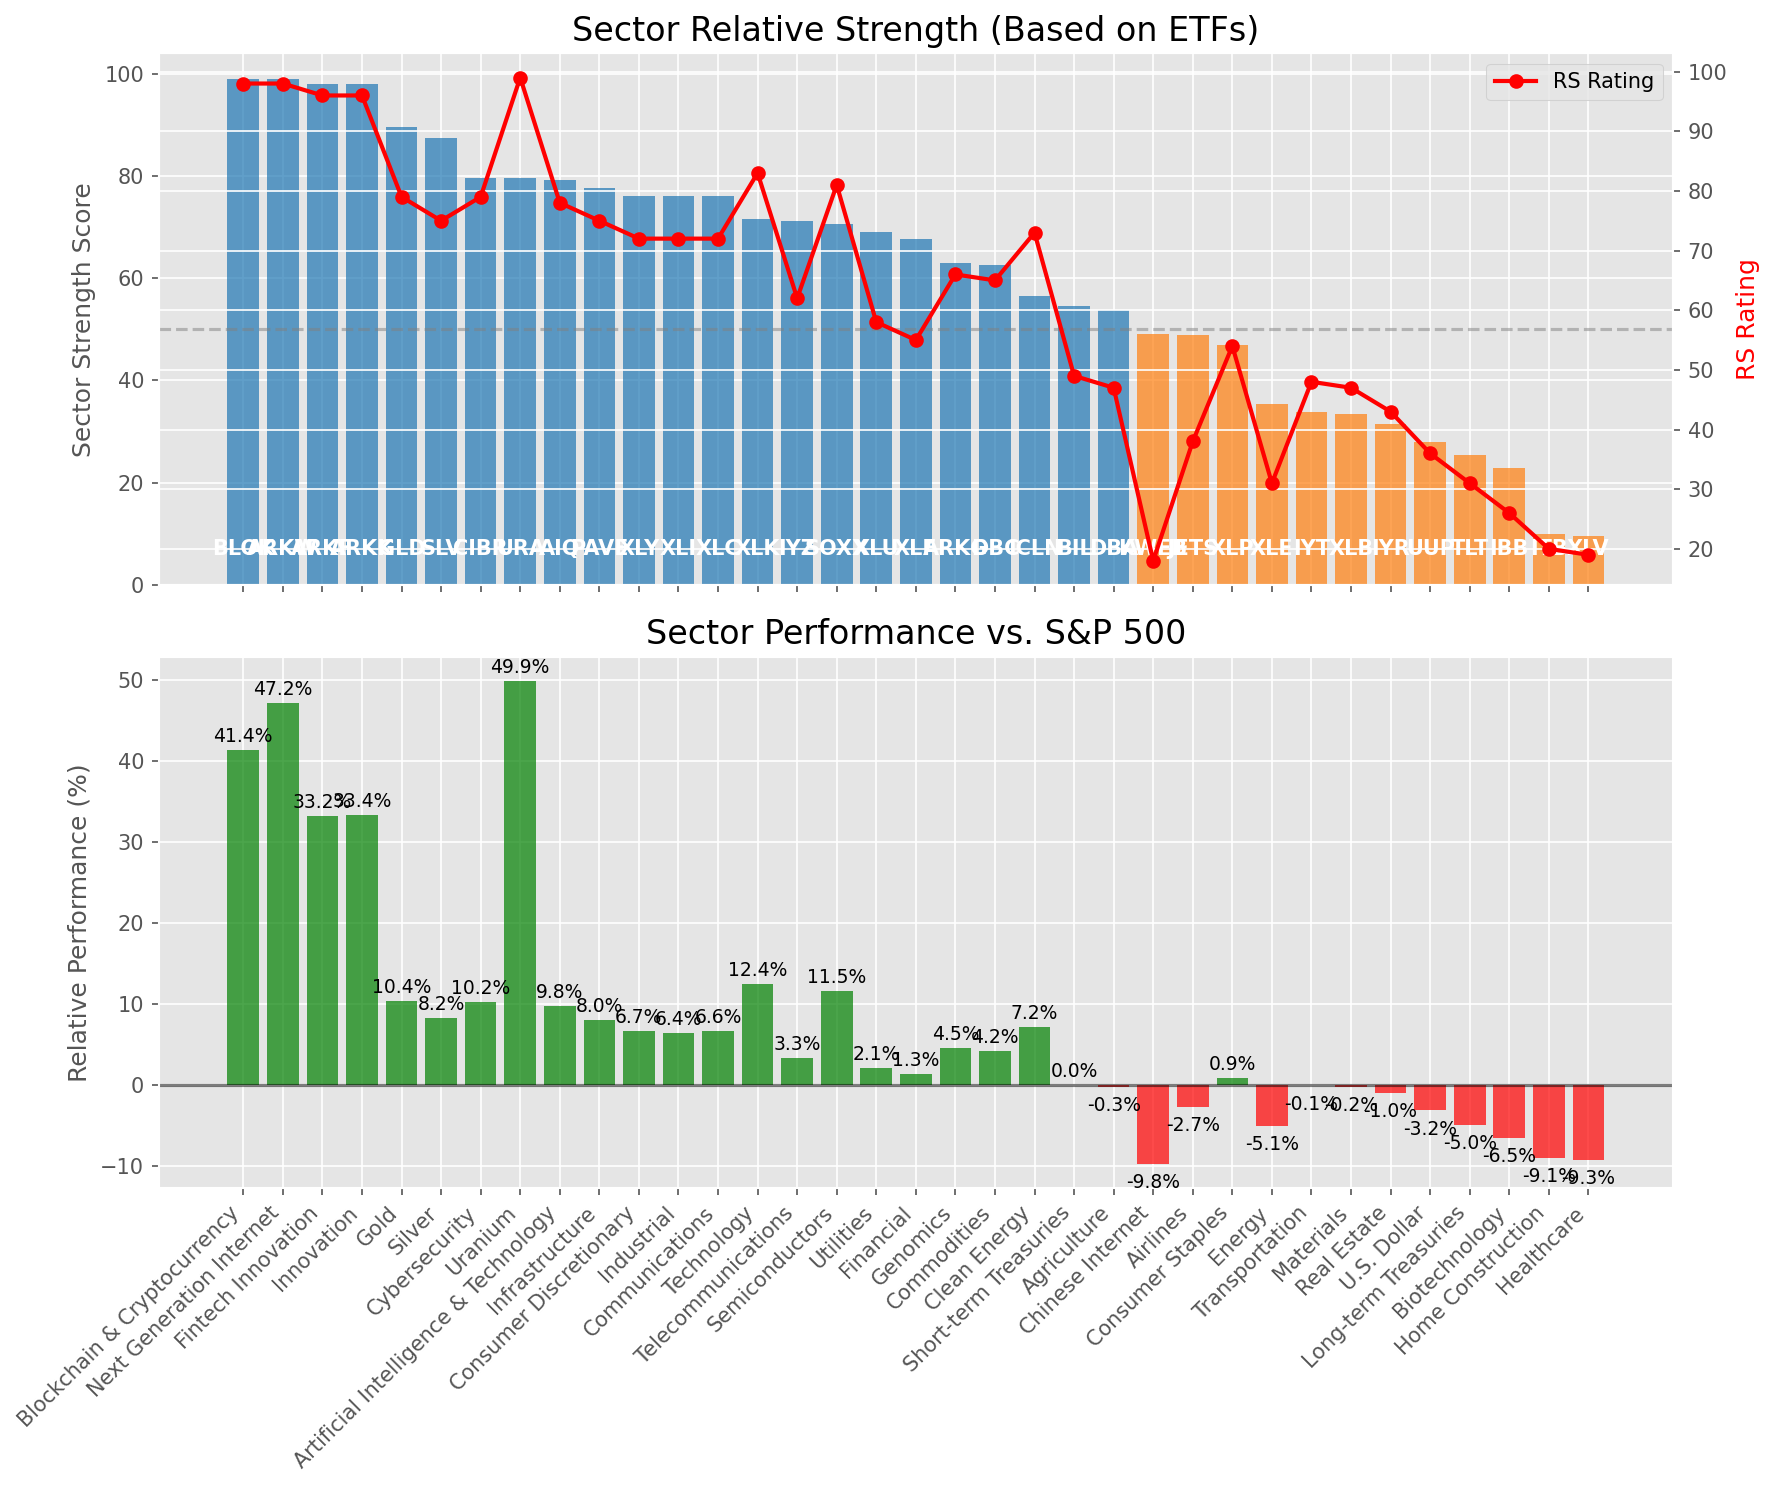
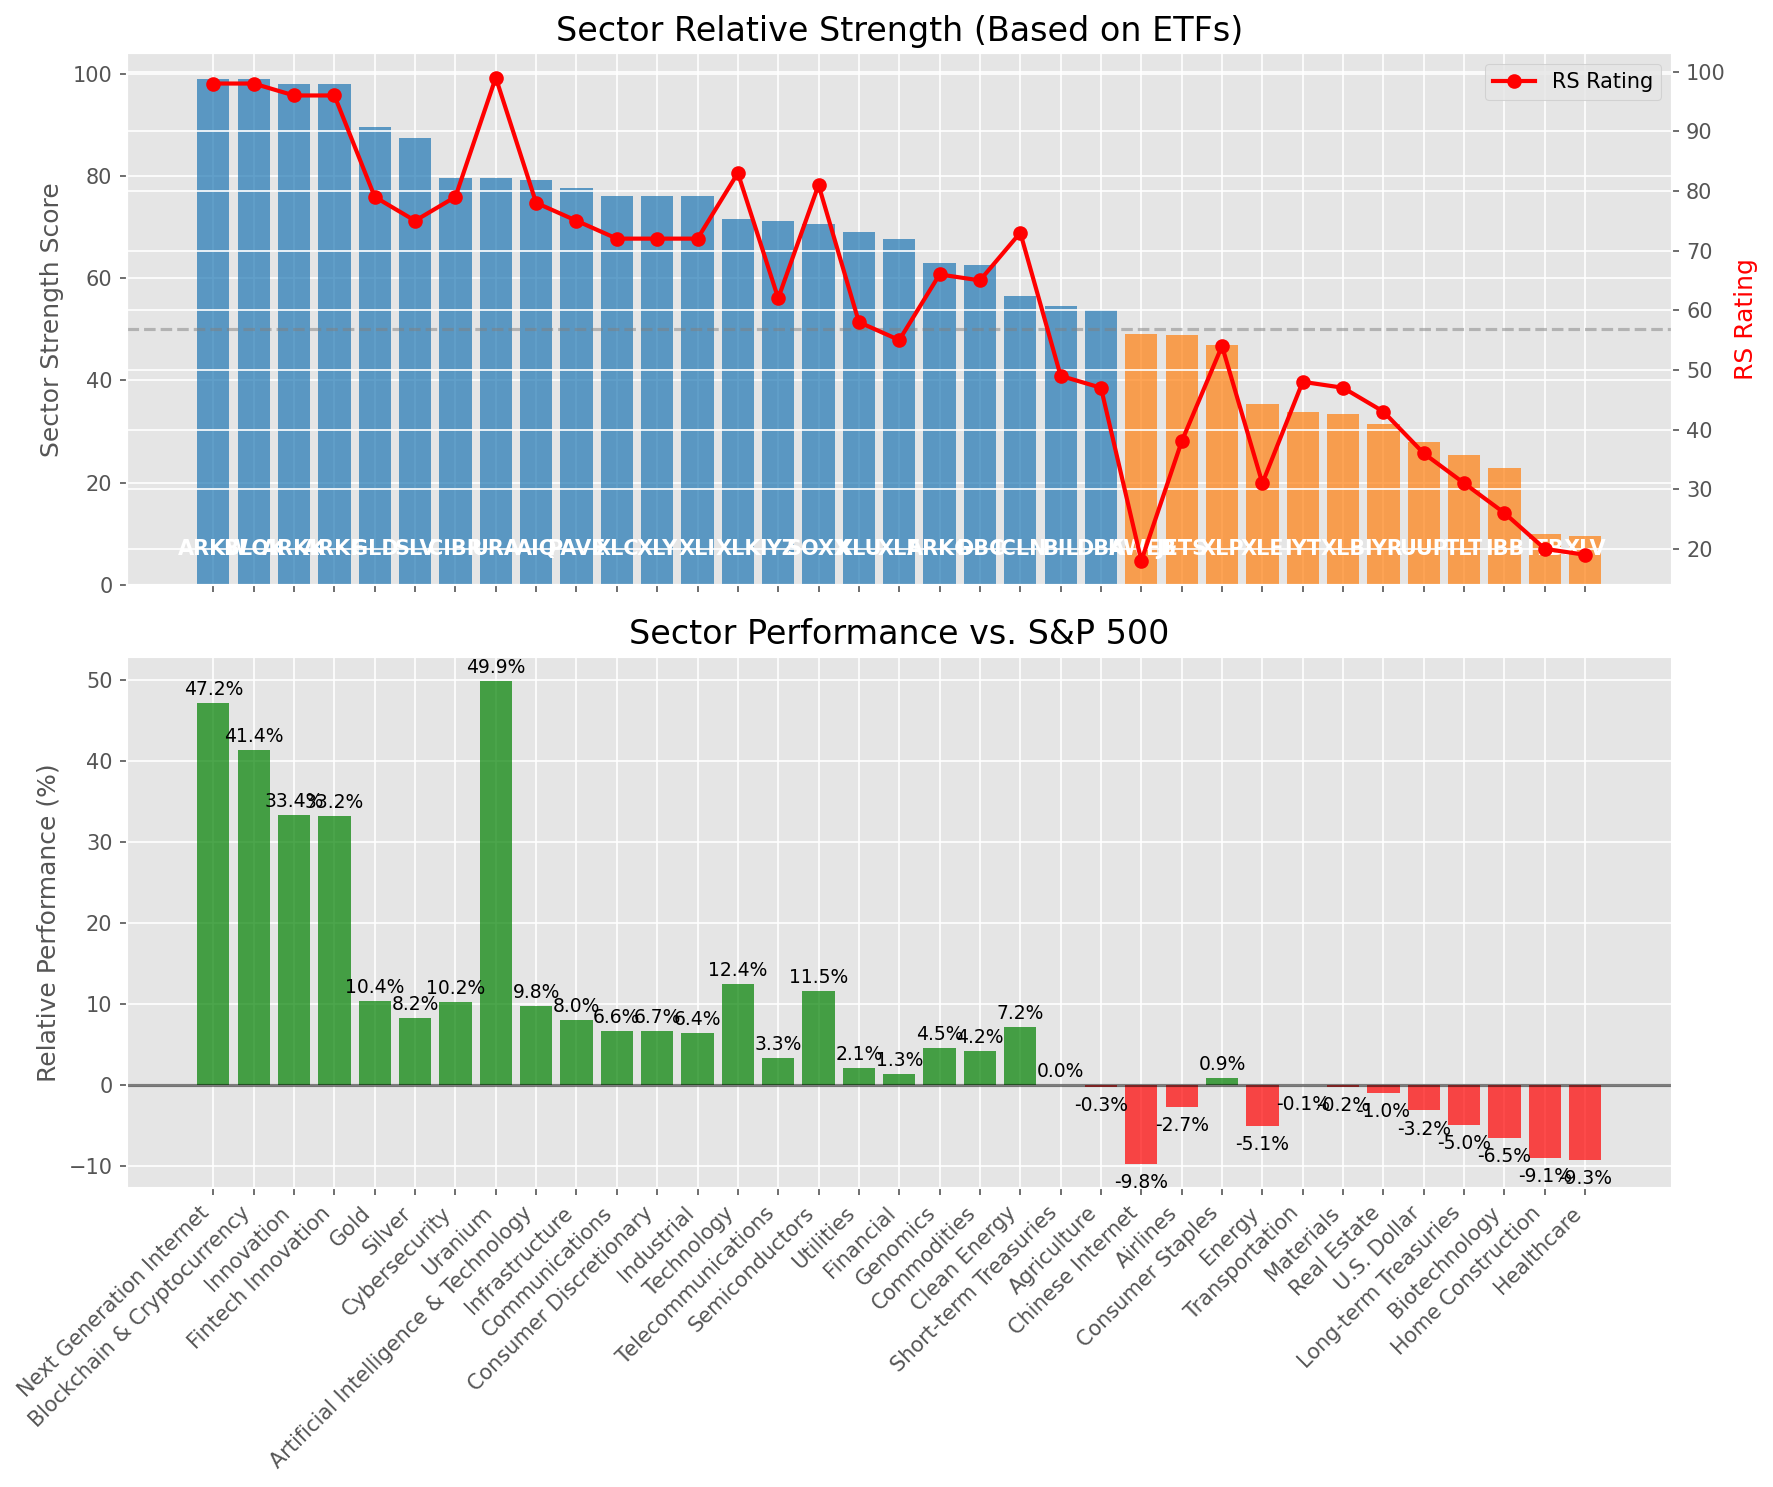
Add market report for 2025-06-19

diff --git a/oneil_relative_strength_report_2025-06-19.md b/oneil_relative_strength_report_2025-06-19.md
@@ -49,19 +49,19 @@ Based on William O'Neil's Relative Strength Methodology
 
 | ETF | Strength | RS Rating | Performance | Above Key MAs | Trend | Sector |
 |-----|----------|-----------|-------------|--------------|-------|--------|
-| [BLOK](https://www.tradingview.com/chart/?symbol=BLOK) | 99.0 | 98.0 | 41.40% | 10d ✓, 50d ✓, 200d ✓ | ↗ | Blockchain & Cryptocurrency |
 | [ARKW](https://www.tradingview.com/chart/?symbol=ARKW) | 99.0 | 98.0 | 47.16% | 10d ✓, 50d ✓, 200d ✓ | ↗ | Next Generation Internet |
-| [ARKF](https://www.tradingview.com/chart/?symbol=ARKF) | 98.0 | 96.0 | 33.24% | 10d ✓, 50d ✓, 200d ✓ | ↗ | Fintech Innovation |
+| [BLOK](https://www.tradingview.com/chart/?symbol=BLOK) | 99.0 | 98.0 | 41.40% | 10d ✓, 50d ✓, 200d ✓ | ↗ | Blockchain & Cryptocurrency |
 | [ARKK](https://www.tradingview.com/chart/?symbol=ARKK) | 98.0 | 96.0 | 33.41% | 10d ✓, 50d ✓, 200d ✓ | ↗ | Innovation |
+| [ARKF](https://www.tradingview.com/chart/?symbol=ARKF) | 98.0 | 96.0 | 33.24% | 10d ✓, 50d ✓, 200d ✓ | ↗ | Fintech Innovation |
 | [GLD](https://www.tradingview.com/chart/?symbol=GLD) | 89.5 | 79.0 | 10.37% | 10d ✓, 50d ✓, 200d ✓ | ↗ | Gold |
 | [SLV](https://www.tradingview.com/chart/?symbol=SLV) | 87.5 | 75.0 | 8.20% | 10d ✓, 50d ✓, 200d ✓ | ↗ | Silver |
 | [CIBR](https://www.tradingview.com/chart/?symbol=CIBR) | 79.6 | 79.0 | 10.22% | 10d ✗, 50d ✓, 200d ✓ | ↗ | Cybersecurity |
 | [URA](https://www.tradingview.com/chart/?symbol=URA) | 79.5 | 99.0 | 49.94% | 10d ✓, 50d ✓, 200d ✓ | ↘ | Uranium |
 | [AIQ](https://www.tradingview.com/chart/?symbol=AIQ) | 79.1 | 78.0 | 9.78% | 10d ✗, 50d ✓, 200d ✓ | ↗ | Artificial Intelligence & Technology |
 | [PAVE](https://www.tradingview.com/chart/?symbol=PAVE) | 77.6 | 75.0 | 8.01% | 10d ✗, 50d ✓, 200d ✓ | ↗ | Infrastructure |
+| [XLC](https://www.tradingview.com/chart/?symbol=XLC) | 76.1 | 72.0 | 6.62% | 10d ✗, 50d ✓, 200d ✓ | ↗ | Communications |
 | [XLY](https://www.tradingview.com/chart/?symbol=XLY) | 76.1 | 72.0 | 6.70% | 10d ✗, 50d ✓, 200d ✓ | ↗ | Consumer Discretionary |
 | [XLI](https://www.tradingview.com/chart/?symbol=XLI) | 76.1 | 72.0 | 6.42% | 10d ✗, 50d ✓, 200d ✓ | ↗ | Industrial |
-| [XLC](https://www.tradingview.com/chart/?symbol=XLC) | 76.1 | 72.0 | 6.62% | 10d ✗, 50d ✓, 200d ✓ | ↗ | Communications |
 | [XLK](https://www.tradingview.com/chart/?symbol=XLK) | 71.5 | 83.0 | 12.42% | 10d ✓, 50d ✓, 200d ✓ | ↘ | Technology |
 | [IYZ](https://www.tradingview.com/chart/?symbol=IYZ) | 71.1 | 62.0 | 3.31% | 10d ✗, 50d ✓, 200d ✓ | ↗ | Telecommunications |
 | [SOXX](https://www.tradingview.com/chart/?symbol=SOXX) | 70.5 | 81.0 | 11.55% | 10d ✓, 50d ✓, 200d ✓ | ↘ | Semiconductors |
@@ -98,9 +98,9 @@ This table shows the relative strength metrics for different market sectors base
 
 ### **Current Sector Leadership**
 
-The current market leadership is coming from the following sectors: **Blockchain & Cryptocurrency, Next Generation Internet, Fintech Innovation**.
+The current market leadership is coming from the following sectors: **Next Generation Internet, Blockchain & Cryptocurrency, Innovation**.
 
-The **Blockchain & Cryptocurrency** sector (represented by **BLOK**) is showing particularly strong relative strength with an RS rating of 98.0 and performance of 41.40% vs. the S&P 500. This sector is trading above its 10-day, 50-day, 200-day moving average(s). Investors should consider focusing on high RS stocks within these leading sectors for potential outperformance.
+The **Next Generation Internet** sector (represented by **ARKW**) is showing particularly strong relative strength with an RS rating of 98.0 and performance of 47.16% vs. the S&P 500. This sector is trading above its 10-day, 50-day, 200-day moving average(s). Investors should consider focusing on high RS stocks within these leading sectors for potential outperformance.
 
 ---
 
@@ -110,37 +110,37 @@ The following 75 stocks show exceptional relative strength:
 
 | RS Rating | Buy Score | Current Price | Chart | Name | Ticker |
 |-----------|-----------|---------------|-------|------|--------|
-| 100 | 100 | $143.03 | [Chart](https://www.tradingview.com/chart/?symbol=SEZL) | Sezzle Inc. Common Stock | SEZL |
+| 100 | 100 | $102.65 | [Chart](https://www.tradingview.com/chart/?symbol=RBLX) | Roblox Corporation | RBLX |
 | 100 | 100 | $180.96 | [Chart](https://www.tradingview.com/chart/?symbol=LEU) | Centrus Energy Corp. | LEU |
 | 100 | 100 | $78.35 | [Chart](https://www.tradingview.com/chart/?symbol=HOOD) | Robinhood Markets, Inc. Class A Common Stock | HOOD |
-| 100 | 100 | $102.65 | [Chart](https://www.tradingview.com/chart/?symbol=RBLX) | Roblox Corporation | RBLX |
+| 100 | 100 | $143.03 | [Chart](https://www.tradingview.com/chart/?symbol=SEZL) | Sezzle Inc. Common Stock | SEZL |
 | 100 | 100 | $61.07 | [Chart](https://www.tradingview.com/chart/?symbol=HIMS) | Hims & Hers Health, Inc. | HIMS |
-| 99 | 100 | $136.25 | [Chart](https://www.tradingview.com/chart/?symbol=CLS) | Celestica, Inc. | CLS |
-| 99 | 100 | $181.40 | [Chart](https://www.tradingview.com/chart/?symbol=NET) | Cloudflare, Inc. Class A common stock, par value $0.001 per share | NET |
-| 99 | 100 | $30.74 | [Chart](https://www.tradingview.com/chart/?symbol=CRK) | Comstock Resources, Inc. | CRK |
-| 99 | 100 | $79.38 | [Chart](https://www.tradingview.com/chart/?symbol=SLNO) | Soleno Therapeutics, Inc. Common Stock | SLNO |
-| 99 | 100 | $139.96 | [Chart](https://www.tradingview.com/chart/?symbol=PLTR) | Palantir Technologies Inc. Class A Common Stock | PLTR |
 | 99 | 100 | $43.78 | [Chart](https://www.tradingview.com/chart/?symbol=FARO) | Faro Technologies Inc | FARO |
+| 99 | 100 | $139.96 | [Chart](https://www.tradingview.com/chart/?symbol=PLTR) | Palantir Technologies Inc. Class A Common Stock | PLTR |
+| 99 | 100 | $79.38 | [Chart](https://www.tradingview.com/chart/?symbol=SLNO) | Soleno Therapeutics, Inc. Common Stock | SLNO |
+| 99 | 100 | $136.25 | [Chart](https://www.tradingview.com/chart/?symbol=CLS) | Celestica, Inc. | CLS |
+| 99 | 100 | $30.74 | [Chart](https://www.tradingview.com/chart/?symbol=CRK) | Comstock Resources, Inc. | CRK |
+| 99 | 100 | $181.40 | [Chart](https://www.tradingview.com/chart/?symbol=NET) | Cloudflare, Inc. Class A common stock, par value $0.001 per share | NET |
 | 98 | 100 | $52.50 | [Chart](https://www.tradingview.com/chart/?symbol=BBW) | Build-A-Bear Workshop, Inc. | BBW |
 | 98 | 100 | $204.66 | [Chart](https://www.tradingview.com/chart/?symbol=JBL) | Jabil Inc. | JBL |
 | 98 | 100 | $490.19 | [Chart](https://www.tradingview.com/chart/?symbol=GEV) | GE Vernova Inc. | GEV |
-| 97 | 100 | $37.22 | [Chart](https://www.tradingview.com/chart/?symbol=MP) | MP Materials Corp. | MP |
 | 97 | 100 | $144.57 | [Chart](https://www.tradingview.com/chart/?symbol=COOP) | Mr. Cooper Group Inc. Common Stock | COOP |
+| 97 | 100 | $37.22 | [Chart](https://www.tradingview.com/chart/?symbol=MP) | MP Materials Corp. | MP |
 | 97 | 100 | $290.38 | [Chart](https://www.tradingview.com/chart/?symbol=TLN) | Talen Energy Corporation Common Stock | TLN |
 | 96 | 100 | $21.41 | [Chart](https://www.tradingview.com/chart/?symbol=MAG) | MAG Silver Corp. | MAG |
 | 96 | 100 | $48.12 | [Chart](https://www.tradingview.com/chart/?symbol=AU) | AngloGold Ashanti plc | AU |
 | 96 | 100 | $46.94 | [Chart](https://www.tradingview.com/chart/?symbol=ARKF) | ARK Fintech Innovation ETF | ARKF |
 | 96 | 100 | $70.88 | [Chart](https://www.tradingview.com/chart/?symbol=ULS) | UL Solutions Inc. | ULS |
 | 95 | 100 | $250.97 | [Chart](https://www.tradingview.com/chart/?symbol=CRS) | Carpenter Technology Corp | CRS |
-| 95 | 100 | $32.30 | [Chart](https://www.tradingview.com/chart/?symbol=PRDO) | Perdoceo Education Corporation | PRDO |
-| 95 | 100 | $485.16 | [Chart](https://www.tradingview.com/chart/?symbol=CRWD) | CrowdStrike Holdings, Inc. Class A Common Stock | CRWD |
 | 95 | 100 | $42.16 | [Chart](https://www.tradingview.com/chart/?symbol=KTOS) | Kratos Defense & Security Solutions, Inc. | KTOS |
-| 94 | 100 | $178.31 | [Chart](https://www.tradingview.com/chart/?symbol=EAT) | Brinker International, Inc. | EAT |
+| 95 | 100 | $485.16 | [Chart](https://www.tradingview.com/chart/?symbol=CRWD) | CrowdStrike Holdings, Inc. Class A Common Stock | CRWD |
+| 95 | 100 | $32.30 | [Chart](https://www.tradingview.com/chart/?symbol=PRDO) | Perdoceo Education Corporation | PRDO |
 | 94 | 100 | $24.56 | [Chart](https://www.tradingview.com/chart/?symbol=TFPM) | Triple Flag Precious Metals Corp. | TFPM |
+| 94 | 100 | $178.31 | [Chart](https://www.tradingview.com/chart/?symbol=EAT) | Brinker International, Inc. | EAT |
 | 94 | 100 | $506.31 | [Chart](https://www.tradingview.com/chart/?symbol=CASY) | Casey's General Stores Inc | CASY |
-| 93 | 100 | $124.50 | [Chart](https://www.tradingview.com/chart/?symbol=ATGE) | Adtalem Global Education Inc. Common Shares | ATGE |
-| 93 | 100 | $165.40 | [Chart](https://www.tradingview.com/chart/?symbol=CAH) | Cardinal Health, Inc. | CAH |
 | 93 | 100 | $103.48 | [Chart](https://www.tradingview.com/chart/?symbol=JCI) | Johnson Controls International plc | JCI |
+| 93 | 100 | $165.40 | [Chart](https://www.tradingview.com/chart/?symbol=CAH) | Cardinal Health, Inc. | CAH |
+| 93 | 100 | $124.50 | [Chart](https://www.tradingview.com/chart/?symbol=ATGE) | Adtalem Global Education Inc. Common Shares | ATGE |
 | 92 | 100 | $22.38 | [Chart](https://www.tradingview.com/chart/?symbol=BTSG) | BrightSpring Health Services, Inc. Common Stock | BTSG |
 | 92 | 100 | $54.90 | [Chart](https://www.tradingview.com/chart/?symbol=AKRO) | Akero Therapeutics, Inc. Common Stock | AKRO |
 | 92 | 100 | $58.92 | [Chart](https://www.tradingview.com/chart/?symbol=CAKE) | Cheesecake Factory (The) | CAKE |
@@ -149,18 +149,18 @@ The following 75 stocks show exceptional relative strength:
 | 90 | 100 | $49.34 | [Chart](https://www.tradingview.com/chart/?symbol=BTI) | British American Tobacco p.l.c. American Depositary Shares, American Depositary Shares, each representing one Ordinary Share | BTI |
 | 90 | 100 | $91.07 | [Chart](https://www.tradingview.com/chart/?symbol=WPM) | Wheaton Precious Metals Corp. Common Stock | WPM |
 | 90 | 100 | $58.38 | [Chart](https://www.tradingview.com/chart/?symbol=SHLD) | Global X Defense Tech ETF | SHLD |
+| 89 | 100 | $182.61 | [Chart](https://www.tradingview.com/chart/?symbol=PM) | Philip Morris International Inc. | PM |
+| 89 | 100 | $222.75 | [Chart](https://www.tradingview.com/chart/?symbol=DRI) | Darden Restaurants, Inc. | DRI |
+| 89 | 100 | $74.12 | [Chart](https://www.tradingview.com/chart/?symbol=CTVA) | Corteva, Inc. Common Stock | CTVA |
+| 89 | 100 | $40.00 | [Chart](https://www.tradingview.com/chart/?symbol=BBIO) | BridgeBio Pharma, Inc. Common Stock | BBIO |
 | 89 | 100 | $52.60 | [Chart](https://www.tradingview.com/chart/?symbol=IBKR) | Interactive Brokers Group, Inc. Class A Common Stock | IBKR |
 | 89 | 100 | $35.74 | [Chart](https://www.tradingview.com/chart/?symbol=AHR) | American Healthcare REIT, Inc. | AHR |
-| 89 | 100 | $182.61 | [Chart](https://www.tradingview.com/chart/?symbol=PM) | Philip Morris International Inc. | PM |
-| 89 | 100 | $40.00 | [Chart](https://www.tradingview.com/chart/?symbol=BBIO) | BridgeBio Pharma, Inc. Common Stock | BBIO |
-| 89 | 100 | $74.12 | [Chart](https://www.tradingview.com/chart/?symbol=CTVA) | Corteva, Inc. Common Stock | CTVA |
-| 89 | 100 | $222.75 | [Chart](https://www.tradingview.com/chart/?symbol=DRI) | Darden Restaurants, Inc. | DRI |
 | 88 | 100 | $36.02 | [Chart](https://www.tradingview.com/chart/?symbol=UGL) | ProShares Ultra Gold | UGL |
-| 88 | 100 | $79.30 | [Chart](https://www.tradingview.com/chart/?symbol=LLYVK) | Liberty Media Corporation Series C Liberty Live Common Stock | LLYVK |
 | 88 | 100 | $175.95 | [Chart](https://www.tradingview.com/chart/?symbol=TKO) | TKO Group Holdings, Inc. | TKO |
+| 88 | 100 | $79.30 | [Chart](https://www.tradingview.com/chart/?symbol=LLYVK) | Liberty Media Corporation Series C Liberty Live Common Stock | LLYVK |
 | 87 | 100 | $220.58 | [Chart](https://www.tradingview.com/chart/?symbol=DASH) | DoorDash, Inc. Class A Common Stock | DASH |
-| 87 | 100 | $122.65 | [Chart](https://www.tradingview.com/chart/?symbol=AEM) | Agnico Eagle Mines Ltd. | AEM |
 | 87 | 100 | $281.16 | [Chart](https://www.tradingview.com/chart/?symbol=VRSN) | VeriSign Inc | VRSN |
+| 87 | 100 | $122.65 | [Chart](https://www.tradingview.com/chart/?symbol=AEM) | Agnico Eagle Mines Ltd. | AEM |
 | 86 | 99 | $42.68 | [Chart](https://www.tradingview.com/chart/?symbol=VIRT) | Virtu Financial, Inc. Class A | VIRT |
 | 86 | 99 | $22.49 | [Chart](https://www.tradingview.com/chart/?symbol=LAUR) | Laureate Education, Inc. Common Stock | LAUR |
 | 85 | 99 | $238.50 | [Chart](https://www.tradingview.com/chart/?symbol=TTWO) | Take-Two Interactive Software Inc | TTWO |
@@ -171,8 +171,8 @@ The following 75 stocks show exceptional relative strength:
 | 86 | 96 | $90.05 | [Chart](https://www.tradingview.com/chart/?symbol=SANM) | Sanmina  Corp | SANM |
 | 86 | 96 | $195.96 | [Chart](https://www.tradingview.com/chart/?symbol=TRI) | Thomson Reuters Corporation Common Shares | TRI |
 | 85 | 96 | $217.77 | [Chart](https://www.tradingview.com/chart/?symbol=BAP) | Credicorp LTD | BAP |
-| 85 | 95 | $89.91 | [Chart](https://www.tradingview.com/chart/?symbol=SCHW) | The Charles Schwab Corporation | SCHW |
 | 85 | 95 | $205.50 | [Chart](https://www.tradingview.com/chart/?symbol=GPOR) | Gulfport Energy Corporation | GPOR |
+| 85 | 95 | $89.91 | [Chart](https://www.tradingview.com/chart/?symbol=SCHW) | The Charles Schwab Corporation | SCHW |
 | 83 | 95 | $29.20 | [Chart](https://www.tradingview.com/chart/?symbol=IMAX) | Imax Corp | IMAX |
 | 82 | 95 | $283.21 | [Chart](https://www.tradingview.com/chart/?symbol=IBM) | International Business Machines Corporation | IBM |
 | 85 | 94 | $197.17 | [Chart](https://www.tradingview.com/chart/?symbol=COF) | Capital One Financial | COF |
@@ -181,8 +181,8 @@ The following 75 stocks show exceptional relative strength:
 | 80 | 94 | $25.20 | [Chart](https://www.tradingview.com/chart/?symbol=SRAD) | Sportradar Group AG Class A Ordinary Shares | SRAD |
 | 83 | 93 | $86.37 | [Chart](https://www.tradingview.com/chart/?symbol=NDAQ) | Nasdaq, Inc. Common Stock | NDAQ |
 | 80 | 93 | $59.37 | [Chart](https://www.tradingview.com/chart/?symbol=EQT) | EQT CORP | EQT |
-| 81 | 92 | $63.19 | [Chart](https://www.tradingview.com/chart/?symbol=MNST) | Monster Beverage Corporation | MNST |
 | 81 | 92 | $296.75 | [Chart](https://www.tradingview.com/chart/?symbol=COR) | Cencora, Inc. | COR |
+| 81 | 92 | $63.19 | [Chart](https://www.tradingview.com/chart/?symbol=MNST) | Monster Beverage Corporation | MNST |
 | 80 | 92 | $188.34 | [Chart](https://www.tradingview.com/chart/?symbol=LOPE) | Grand Canyon Education, Inc | LOPE |
 | 81 | 91 | $57.17 | [Chart](https://www.tradingview.com/chart/?symbol=EPR) | EPR Properties | EPR |
 
@@ -195,19 +195,19 @@ The following 68 stocks show deteriorating relative strength:
 
 | RS Rating | Sell Score | Current Price | Chart | Name | Ticker |
 |-----------|------------|---------------|-------|------|--------|
-| 1 | 100 | $16.41 | [Chart](https://www.tradingview.com/chart/?symbol=NVDS) | Investment Managers Series Trust II Tradr 1.5X Short NVDA Daily ETF | NVDS |
 | 1 | 100 | $31.05 | [Chart](https://www.tradingview.com/chart/?symbol=TECS) | Direxion Daily Technology Bear 3x Shares | TECS |
 | 1 | 100 | $25.98 | [Chart](https://www.tradingview.com/chart/?symbol=HELE) | Helen Of Troy Ltd | HELE |
+| 1 | 100 | $16.41 | [Chart](https://www.tradingview.com/chart/?symbol=NVDS) | Investment Managers Series Trust II Tradr 1.5X Short NVDA Daily ETF | NVDS |
 | 2 | 100 | $11.62 | [Chart](https://www.tradingview.com/chart/?symbol=NRIX) | Nurix Therapeutics, Inc. Common stock | NRIX |
 | 2 | 100 | $23.91 | [Chart](https://www.tradingview.com/chart/?symbol=CRTO) | Criteo S.A. | CRTO |
 | 3 | 100 | $21.30 | [Chart](https://www.tradingview.com/chart/?symbol=AMRK) | A-Mark Precious Metals, Inc. | AMRK |
 | 4 | 100 | $44.55 | [Chart](https://www.tradingview.com/chart/?symbol=LINE) | Lineage, Inc. Common Stock | LINE |
-| 6 | 100 | $16.58 | [Chart](https://www.tradingview.com/chart/?symbol=AMTB) | Amerant Bancorp Inc. | AMTB |
 | 6 | 100 | $17.06 | [Chart](https://www.tradingview.com/chart/?symbol=ZTO) | ZTO Express (Cayman) Inc. American Depositary Shares, each representing one Class A ordinary share | ZTO |
+| 6 | 100 | $16.58 | [Chart](https://www.tradingview.com/chart/?symbol=AMTB) | Amerant Bancorp Inc. | AMTB |
 | 6 | 100 | $37.58 | [Chart](https://www.tradingview.com/chart/?symbol=APOG) | Apogee Enterprises Inc | APOG |
-| 7 | 100 | $11.07 | [Chart](https://www.tradingview.com/chart/?symbol=M) | Macy's Inc. | M |
-| 7 | 100 | $20.36 | [Chart](https://www.tradingview.com/chart/?symbol=BITI) | ProShares Short Bitcoin ETF | BITI |
 | 7 | 100 | $30.34 | [Chart](https://www.tradingview.com/chart/?symbol=FUN) | Six Flags Entertainment Corporation | FUN |
+| 7 | 100 | $20.36 | [Chart](https://www.tradingview.com/chart/?symbol=BITI) | ProShares Short Bitcoin ETF | BITI |
+| 7 | 100 | $11.07 | [Chart](https://www.tradingview.com/chart/?symbol=M) | Macy's Inc. | M |
 | 9 | 100 | $20.37 | [Chart](https://www.tradingview.com/chart/?symbol=KIDS) | OrthoPediatrics Corp. Common Stock | KIDS |
 | 11 | 100 | $50.27 | [Chart](https://www.tradingview.com/chart/?symbol=AMWD) | American Woodmark Corp | AMWD |
 | 13 | 100 | $10.05 | [Chart](https://www.tradingview.com/chart/?symbol=LBTYK) | Liberty Global Ltd. Class C Common Shares | LBTYK |
